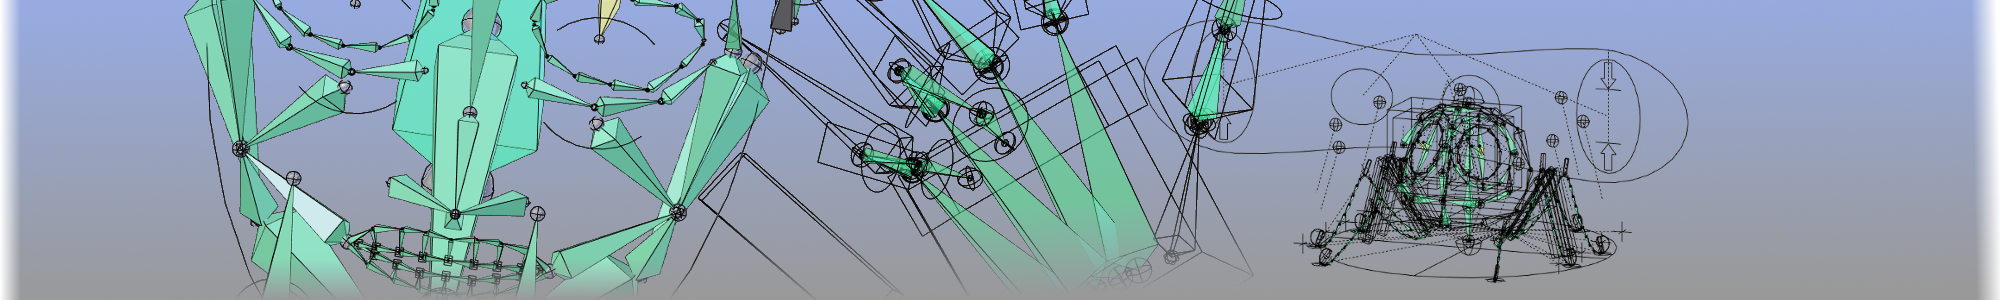
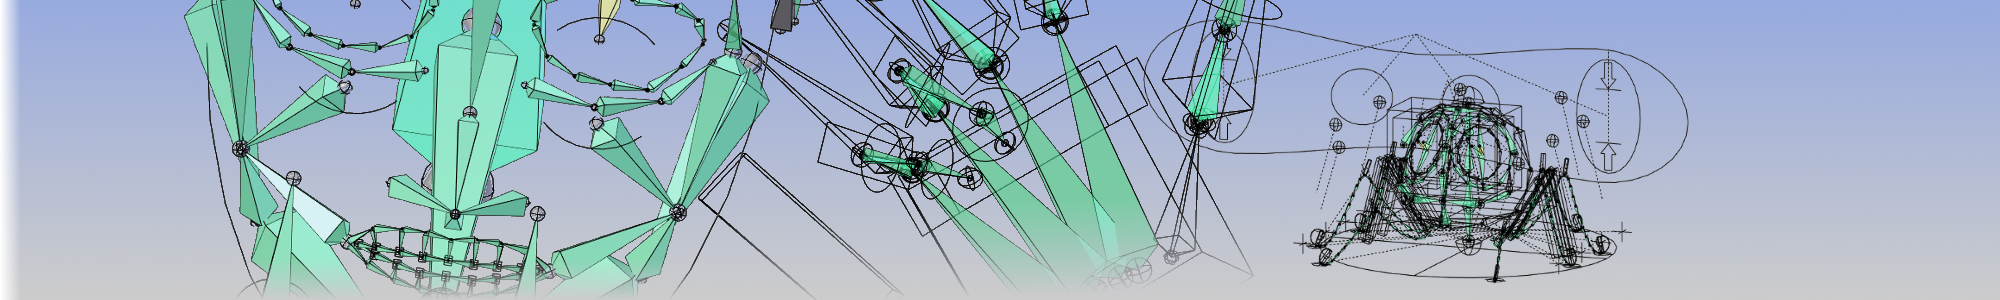
tweak css

diff --git a/_sass/_base.scss b/_sass/_base.scss
@@ -16,7 +16,7 @@ dl, dd, ol, ul, figure {
 body {
     font: $base-font-weight #{$base-font-size}/#{$base-line-height} $base-font-family;
     color: $text-color;
-    background-color: $background-color;
+    background-color: $background-color-body;
     -webkit-text-size-adjust: 100%;
     -webkit-font-feature-settings: "kern" 1;
     -moz-font-feature-settings: "kern" 1;

diff --git a/_sass/julienduroure.scss b/_sass/julienduroure.scss
@@ -166,7 +166,7 @@
    * Latest News
   */
   .latest_news {
-  	background-color: darken($background-color, 3%);
+  	background-color: #BDBCBC;
   	padding-bottom : 10px;
   }
 

diff --git a/_sass/julienduroure_var.scss b/_sass/julienduroure_var.scss
@@ -3,5 +3,6 @@
  */
 
 $background-color: #999999;
+$background-color-body : #CCC;
 $brand-color:      #4A70A8;
 $content-width:    70%;
